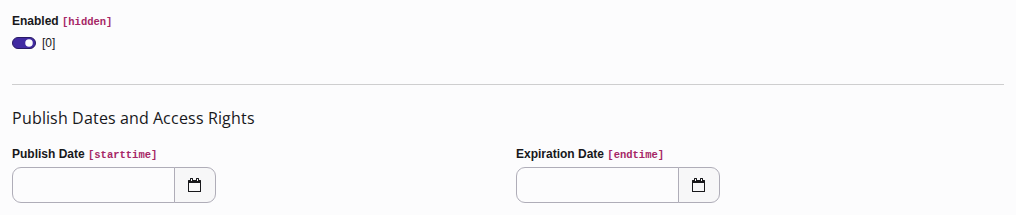
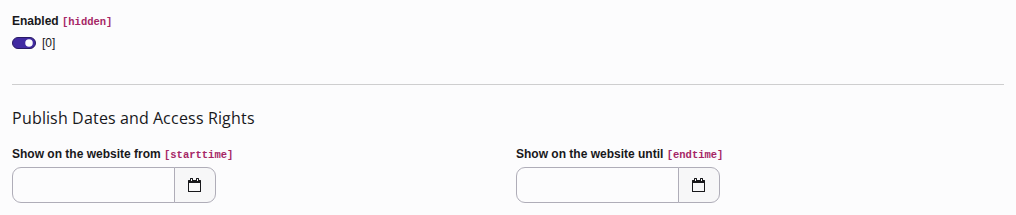
[TASK] Show palettes with the example extension (#1736)
The palettes page and its showitem property used a made-up table with
fields like aField and aFieldInAPalette. The examples now come from the
example extension. Workshops show the feedback palette of a talk with a
label of their own, and the access palette of a conference overrides
the labels of its fields. The address palette of a location shows the
line break.

Releases: main, 14.3
Assisted-by: Claude Opus 5.5 <noreply@anthropic.com>

Changed region(s): [[0.0, 0.6977, 0.2441, 0.7535], [0.4882, 0.6977, 0.7323, 0.7535]]

diff --git a/Tests/Functional/MyExtensionTest.php b/Tests/Functional/MyExtensionTest.php
@@ -83,6 +83,16 @@ final class MyExtensionTest extends FunctionalTestCase
     }
 
     #[Test]
+    public function workshopsShowTheFeedbackPaletteWithALabelOfTheirOwn(): void
+    {
+        $types = $GLOBALS['TCA']['tx_myextension_talk']['types'];
+        self::assertStringContainsString('--palette--;;feedback', $types['talk']['showitem']);
+        self::assertStringContainsString('--palette--;;feedback', $types['keynote']['showitem']);
+        self::assertStringContainsString('--palette--;my_extension.db:talk.feedback.workshop;feedback', $types['workshop']['showitem']);
+        self::assertStringNotContainsString('--palette--;;feedback', $types['workshop']['showitem']);
+    }
+
+    #[Test]
     public function allLabelsAreTranslated(): void
     {
         $languageService = $this->get(LanguageServiceFactory::class)->create('default');

diff --git a/Documentation/CodeSnippets/my_extension/Configuration/TCA/Overrides/298-tx_myextension_talk-feedback.php b/Documentation/CodeSnippets/my_extension/Configuration/TCA/Overrides/298-tx_myextension_talk-feedback.php
@@ -51,6 +51,13 @@ $GLOBALS['TCA']['tx_myextension_talk']['palettes']['feedback'] = [
 ExtensionManagementUtility::addToAllTCAtypes(
   'tx_myextension_talk',
   '--palette--;;feedback',
-  '',
+  'talk,keynote',
+  'after:comments_closed',
+);
+// In a workshop, the participants give the feedback
+ExtensionManagementUtility::addToAllTCAtypes(
+  'tx_myextension_talk',
+  '--palette--;my_extension.db:talk.feedback.workshop;feedback',
+  'workshop',
   'after:comments_closed',
 );

diff --git a/Documentation/CodeSnippets/my_extension/Configuration/TCA/tx_myextension_conference.php b/Documentation/CodeSnippets/my_extension/Configuration/TCA/tx_myextension_conference.php
@@ -74,7 +74,11 @@ return [
   'palettes' => [
     'access' => [
       'label' => 'core.form.palettes:access',
-      'showitem' => 'starttime, endtime',
+      // The labels of the fields tell the editors what the dates are for
+      'showitem' => '
+        starttime;my_extension.db:conference.starttime,
+        endtime;my_extension.db:conference.endtime,
+      ',
     ],
     'language' => [
       'showitem' => 'sys_language_uid, l10n_parent',

diff --git a/Documentation/Palettes/Index.rst b/Documentation/Palettes/Index.rst
@@ -65,12 +65,13 @@ specific label in the 'types' array for a palette overrides the default label
 that was defined within the 'palettes' array. There is no way to unset a label
 that is set within the 'palettes' array. It will always be displayed.
 
-Example:
+The feedback palette of a talk has the label "Feedback". The record type
+`workshop` shows the palette with a label of its own:
 
-..  literalinclude:: /Palettes/_CodeSnippets/_Palettes.php
-    :caption: EXT:my_extension/Configuration/TCA/tx_myextension_mytable.php
-    :visible-lines: 8-17
-    :emphasize-lines: 10, 15
+..  literalinclude:: /CodeSnippets/my_extension/Configuration/TCA/Overrides/298-tx_myextension_talk-feedback.php
+    :caption: EXT:my_extension/Configuration/TCA/Overrides/298-tx_myextension_talk-feedback.php
+    :visible-lines: 3, 47-63
+    :emphasize-lines: 48, 60
 
 ..  _palettes-properties:
 

diff --git a/Documentation/BestPractises/LanguageFields.rst b/Documentation/BestPractises/LanguageFields.rst
@@ -91,5 +91,5 @@ Example: Enable table for localization and translation:
 
 ..  literalinclude:: /CodeSnippets/my_extension/Configuration/TCA/tx_myextension_conference.php
     :caption: EXT:my_extension/Configuration/TCA/tx_myextension_conference.php
-    :visible-lines: 4-29, 57-83
-    :emphasize-lines: 19-22, 66-67, 79-81
+    :visible-lines: 4-29, 57-87
+    :emphasize-lines: 19-22, 66-67, 83-85

diff --git a/Documentation/ColumnsConfig/Type/Language/Index.rst b/Documentation/ColumnsConfig/Type/Language/Index.rst
@@ -92,8 +92,8 @@ section, and the palette shows it:
 
 ..  literalinclude:: /CodeSnippets/my_extension/Configuration/TCA/tx_myextension_conference.php
     :caption: EXT:my_extension/Configuration/TCA/tx_myextension_conference.php
-    :visible-lines: 4-29, 74-83
-    :emphasize-lines: 19, 80
+    :visible-lines: 4-29, 74-87
+    :emphasize-lines: 19, 84
 
 ..  _columns-language-properties:
 

diff --git a/Documentation/Ctrl/EnableColumns.rst b/Documentation/Ctrl/EnableColumns.rst
@@ -37,8 +37,8 @@ in a palette:
 
 ..  literalinclude:: /CodeSnippets/my_extension/Configuration/TCA/tx_myextension_conference.php
     :caption: EXT:my_extension/Configuration/TCA/tx_myextension_conference.php
-    :visible-lines: 57-82
-    :emphasize-lines: 65,77
+    :visible-lines: 57-86
+    :emphasize-lines: 65, 78-81
 
 ..  _ctrl-reference-enablecolumns-examples-hidden:
 
